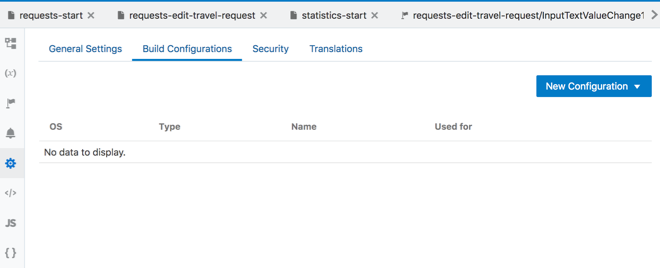
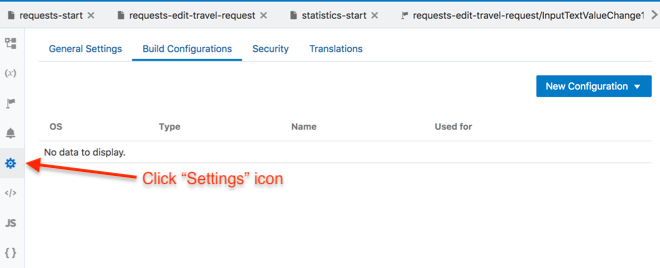
update mobile section

Changed region(s): [[0.0303, 0.597, 0.4545, 0.7164]]

diff --git a/MOB_PART_1.md b/MOB_PART_1.md
@@ -4,36 +4,36 @@ In this lab you’ll create an application that automates a process of approving
 
 ## 1. Create a new Application
 
-Click the New  button
+Click the `New` button
 
 Select the Empty Application template
 
 ![alt text](resources/images/mob/1.png "Logo Title Text 1") 
 
-Provide a name for your application – <YourName>-Travel Approval
+Provide a name for your application – **<YourName>-Travel Approval**
 
 ![alt text](resources/images/mob/2.png "Logo Title Text 1") 
 
-Click Finish to complete the creation of your application.
+Click `Finish` to complete the creation of your application.
 
-> You are now taken into the design environment where you’ll develop your application visually.
-> From here you can create mobile or web applications, connect to external REST services (Service Connections), integrate with other processes (Process Cloud) or you can create your own Business Objects.
+> *You are now taken into the design environment where you’ll develop your application visually.*
+> *From here you can create mobile or web applications, connect to external REST services (Service Connections), integrate with other processes (Process Cloud) or you can create your own Business Objects.*
 
 ## 2. Create Business Objects
 
-> You will create Business Objects to store data by importing an existing spreadsheet. You will then edit the Business Objects, adding fields and setting default values and creating a relationship between objects
+> *You will create Business Objects to store data by importing an existing spreadsheet. You will then edit the Business Objects, adding fields and setting default values and creating a relationship between objects*
 
-Click on Business Objects icon to the left of the navigator 
+Click on `Business Objects` icon to the left of the navigator 
 
-Note that the Business Objects navigator opens in the left panel
+> Note that the Business Objects navigator opens in the left panel
 
 ![alt text](resources/images/mob/3.png "Logo Title Text 1")  
 
-At the top of the navigator, click the Business Objects menu and select Data Manager. This provides short cuts when creating business objects
+At the top of the navigator, click the `Business Objects` menu and select Data Manager. This provides short cuts when creating business objects
 
 ![alt text](resources/images/mob/4.png "Logo Title Text 1") 
  
-Click on Import Business Objects to import data from a spreadsheet
+Click on `Import Business Objects` to import data from a spreadsheet
 
 ![alt text](resources/images/mob/5.png "Logo Title Text 1")  
 
@@ -41,9 +41,9 @@ Inside the Import Business Objects wizard upload the Flights spreadsheet
 
 ![alt text](resources/images/mob/6.png "Logo Title Text 1")  
 
-Once you see the upload has succeeded click Next
+Once you see the upload has succeeded click `Next`
 
-Change the Name After Import and New Object ID from TravelRequests to TravelRequest
+Change the Name After Import and New Object ID from **TravelRequests** to **TravelRequest**
 
 ![alt text](resources/images/mob/7.png "Logo Title Text 1")  
 
@@ -610,3 +610,5 @@ Finally Run the application again in the mobile simulator and move between the p
 
 This concludes the name part of the Lab. Congratulations, you have created your first mobile application complete with Business Objects, a REST Service call and visualizations – all done in the Visual Builder Cloud Service primarily declaratively, but with access to the code if you prefer to work at the code level.
 
+---
+> [`HOME`](README.md) | [`PART 1`](MOB_PART_1.md) | [`EXTRA`](MOB_EXTRA_1.md)

diff --git a/MOB_EXTRA_1.md b/MOB_EXTRA_1.md
@@ -9,12 +9,11 @@ Before you can build the app for installation on an iOS or Android device, you h
 
 Below follows an example of how to setup and build an iOS version of your mobile app.  The lab does not provide the elements for you to complete this setup
 
-Click on the Settings icon for your mobile app and click on the Build Configurations tab
+Click on the `Settings` icon for your mobile app and click on the Build Configurations tab
 
 ![alt text](resources/images/mob/E2.png "Logo Title Text 1")
  
-
-Click `New Configuration` 
+Click `New Configuration`.
 
 To follow this example, click on iOS, but if you are more familiar with Android, go there too
 
@@ -43,3 +42,6 @@ If this is a first Stage deployment you may want to take the development data in
 Once you hit the Stage button (above) the Mobile application is staged and, as it says on the screen, you can scan to install on your device (via the QR scan or by downloading the .ipa file) and start the next stage of your development process
 
 ![alt text](resources/images/mob/E6.png "Logo Title Text 1")
+
+---
+> [`HOME`](README.md) | [`MOB PART 1`](MOB_PART_1.md) | [`EXTRA`](MOB_EXTRA_1.md)
